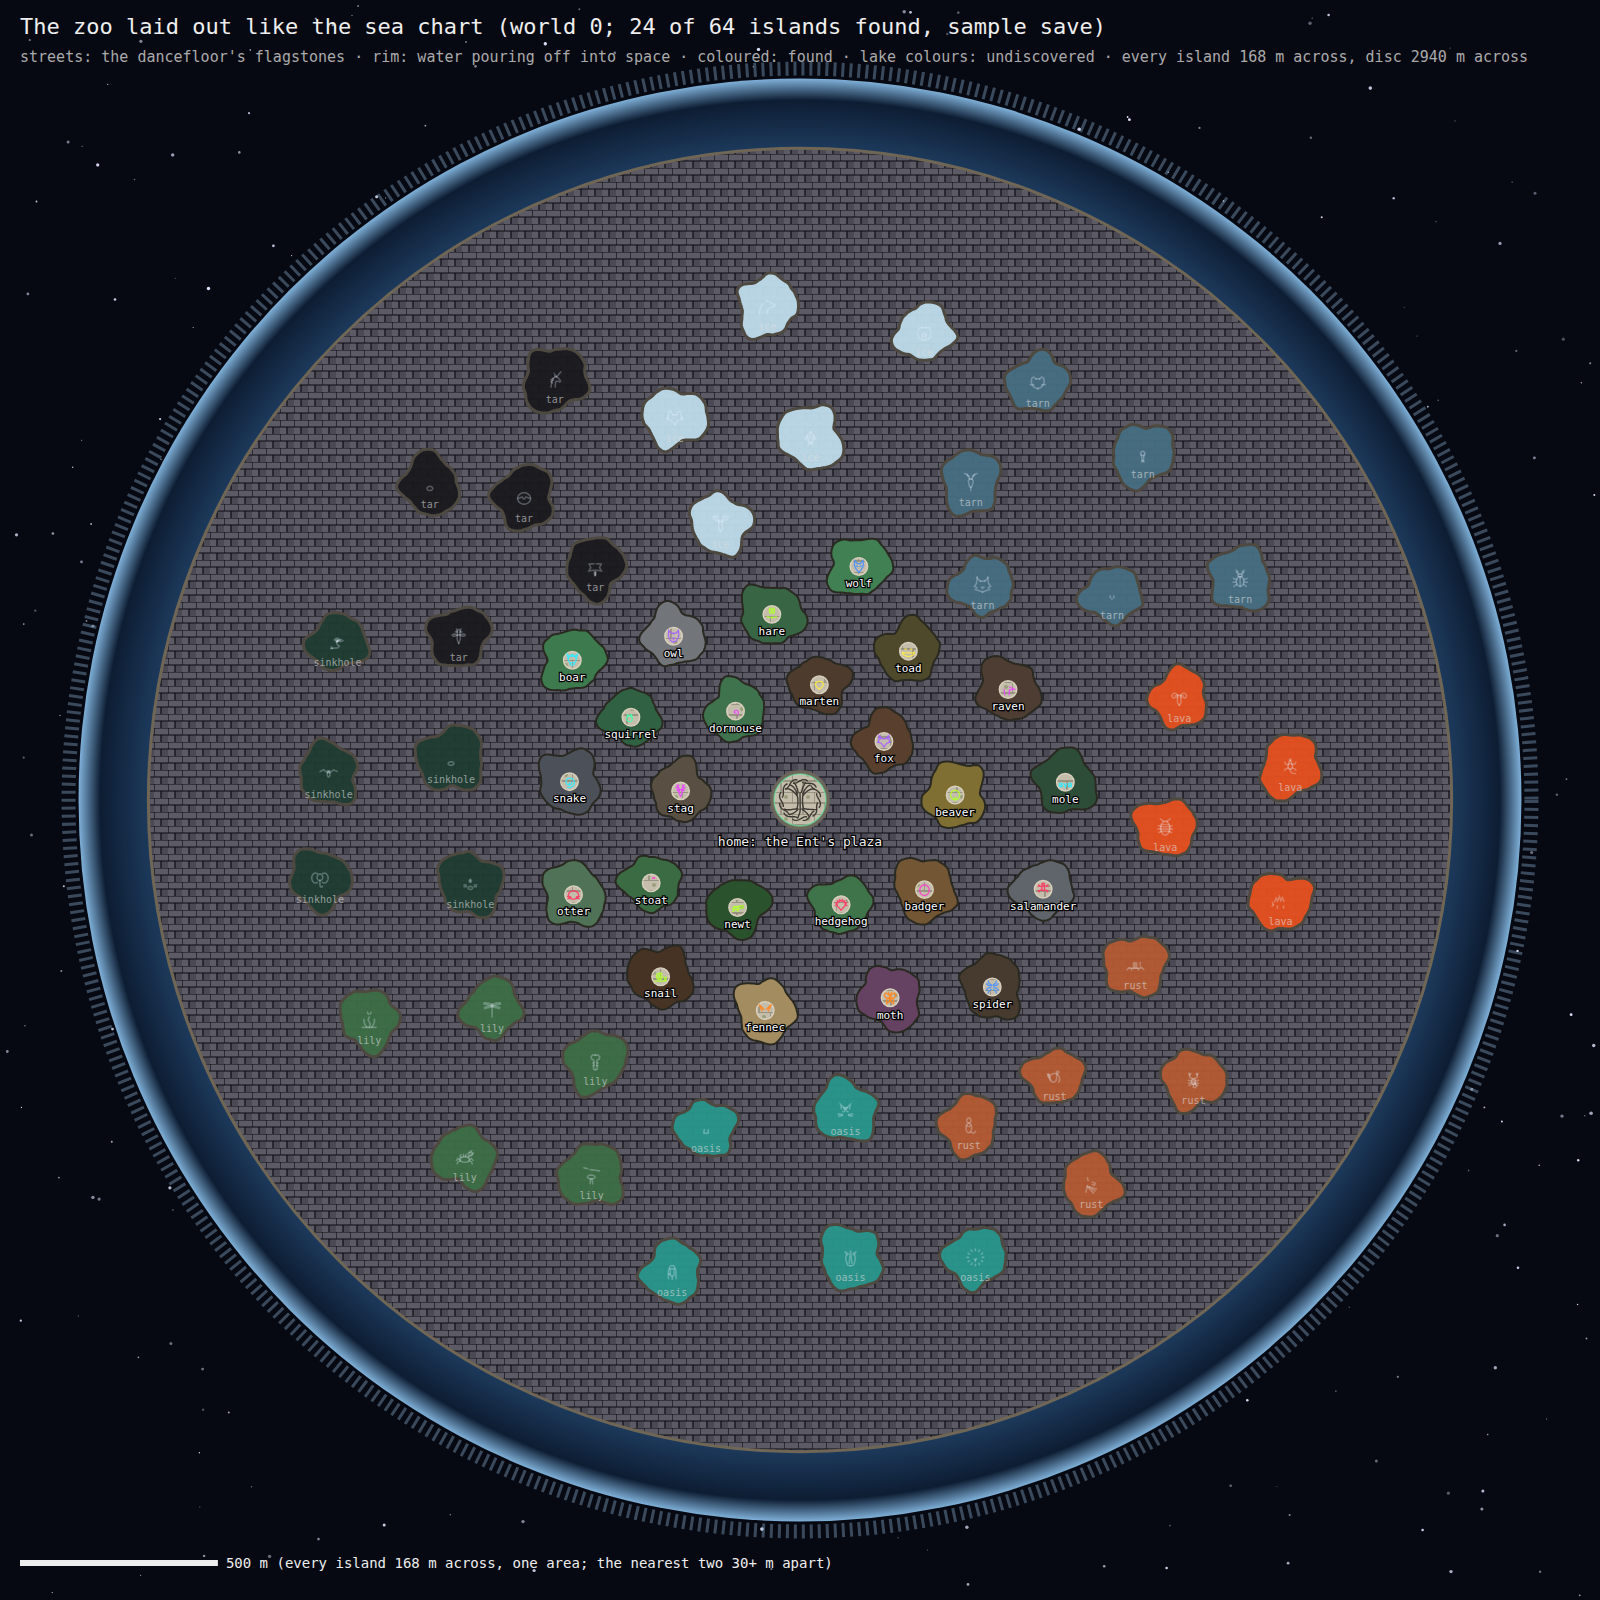
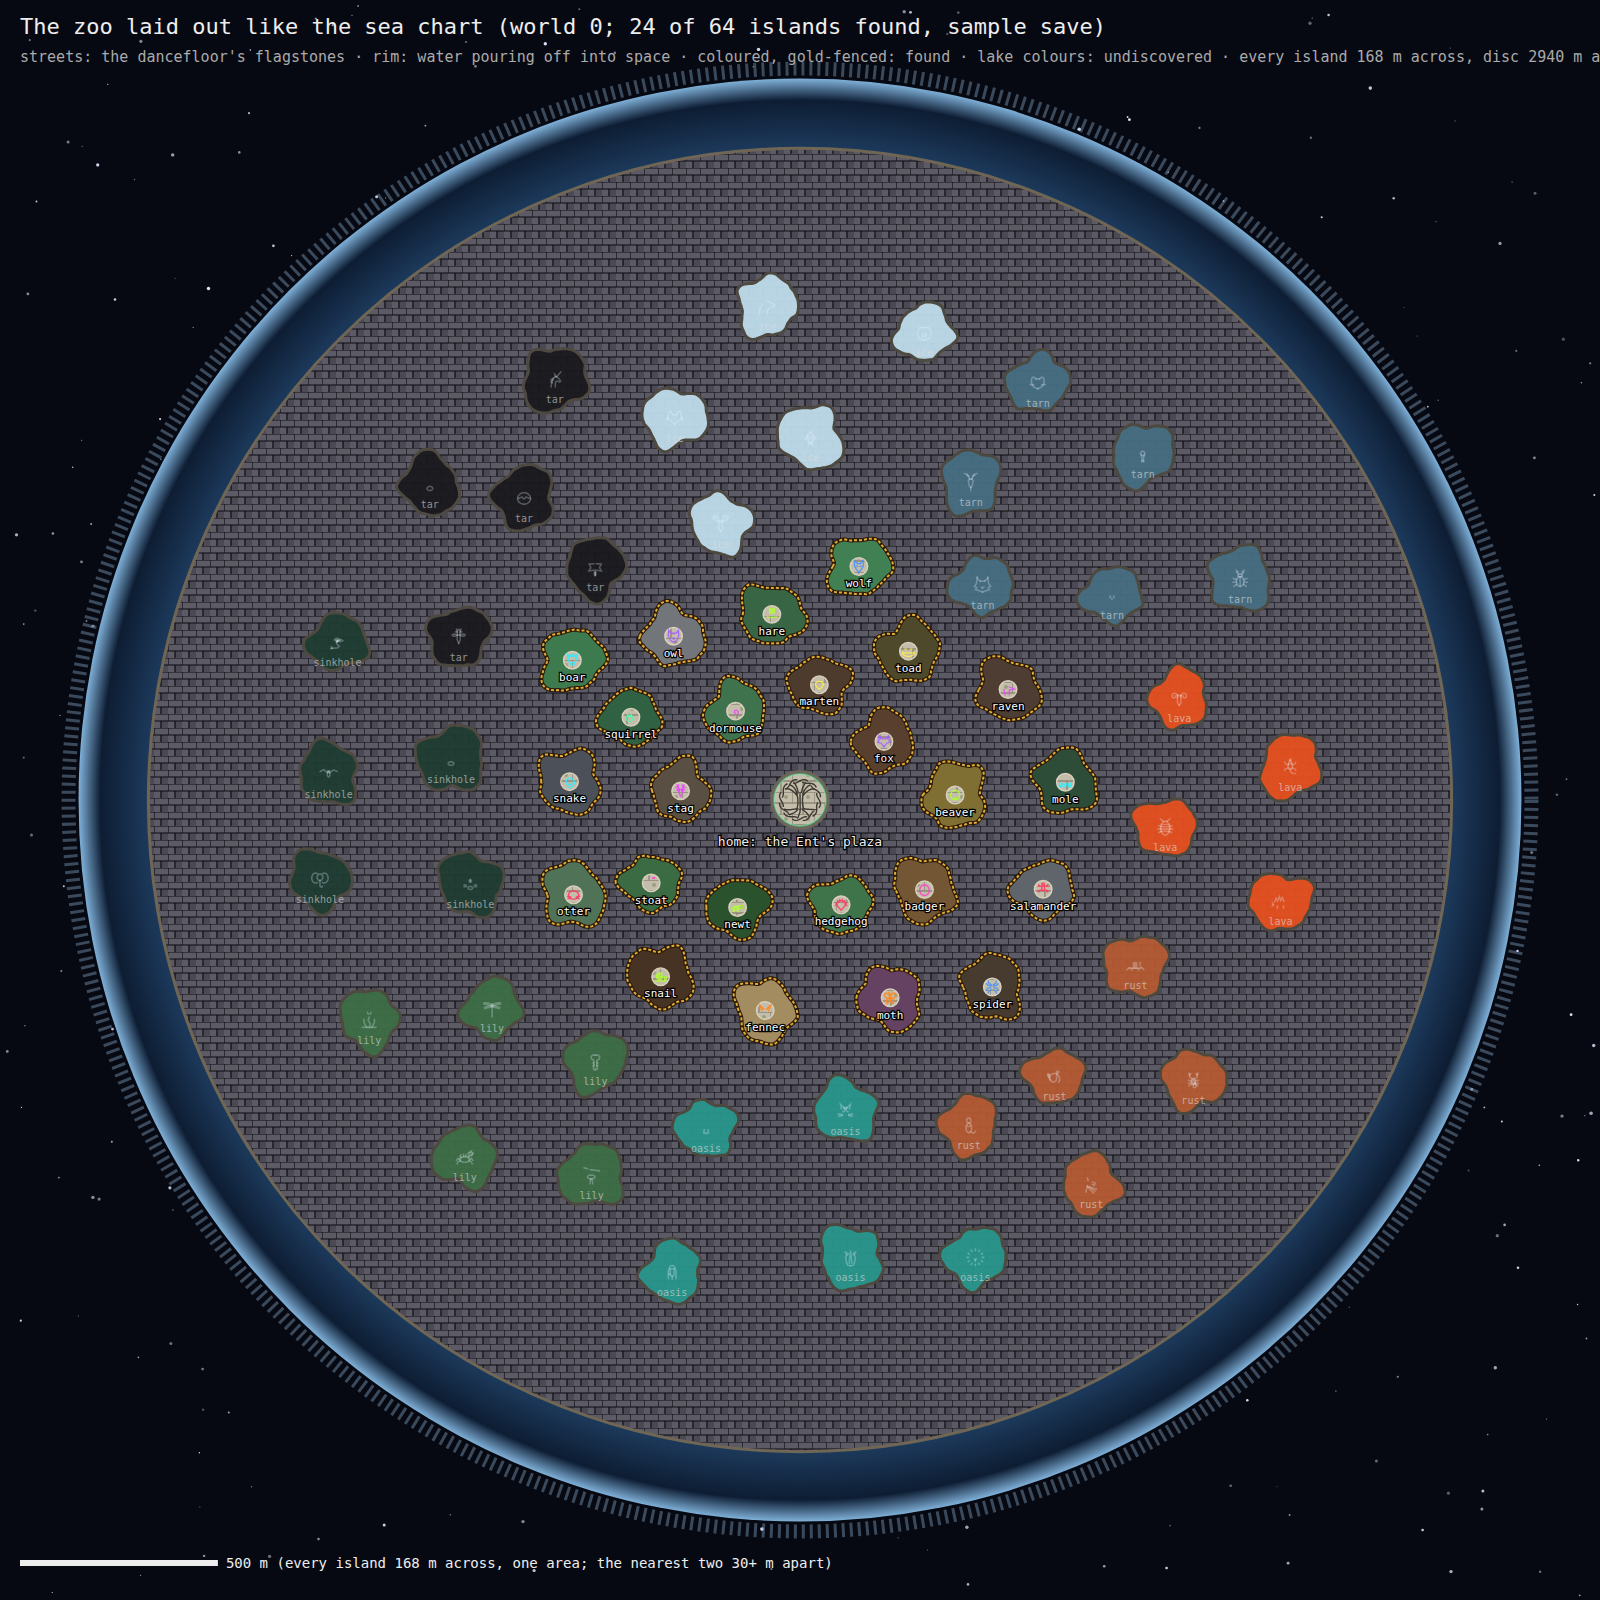
Zoo-map mock: the little gold fence (map outline, concept frame, close-up)
Claude-Session: https://claude.ai/code/session_01TZiiLtuTHaQyxfLgD6H57G

diff --git a/previews/ed/zoo-map/NOTES.md b/previews/ed/zoo-map/NOTES.md
@@ -17,6 +17,7 @@ This is a mock. Nothing here is merged.
 - `chart-edge.png`: the sea chart's own rim, the look the zoo's edge would copy. The sea darkens to the lip, pours off the disc (`seaChart.ts`'s `fall` skirt) and fades into the starfield.
 - `frame-street.png`, `frame-above.png`: in play on a street, on foot and from the treetops. The streets are painted by the ground shader in the dancefloor plaza's flagstones (the same courses, joints, moss and grain as `uPave`), laid in straight courses along the street. This is the mock's hack in `src/render/ground.ts`. It paints today's zoo grid's streets, so it shows **the stone's look only**. The layout is the maps': as built, the flagstones fill the whole sea between the islands (Ed's answer below). `v1/` has the first try, the `flagstones` path strip, for comparison.
 - `frame-island.png`: inside an island's area on foot, today's zoo block (its own floor, flora, runestone and nameplate).
+- `frame-fence.png`, `fence-close.png`: the little gold fence (Ed's), a concept painted in the bold pixel style over the island frame, and a close-up of a section.
 - `lakes/lava-ground.png`, `lakes/ice-*.png`: two biome lakes as the game draws them today. An undiscovered island would be one of these in its outline.
 
 ## How it would read the chart
@@ -81,6 +82,16 @@ Ed: "I think the streets should be the shape of the sea, and the areas should be
 ## Undiscovered islands (Ed answered)
 
 An undiscovered island is its biome's lake in the island's outline, with the animal's sigil drawn faintly on the water: like the legend floor's carving, but faint and watery. To build it, the lake shader takes the sigil's mask (`legendSigilMask`, as the carving does) at low strength, rippled by the water's own wobble.
+
+## The gold fence (Ed)
+
+Ed: "Zoo areas, apart from home, should have a little gold fence around them, that stop creatures passing."
+
+- **Where.** Along every found island's outline (gold in `map.png`). There is none round the home plaza.
+  - **Undiscovered lakes: no fence (proposal).** Nothing lives on them to keep in, and the shore already reads as the edge. When the island is found, its lake becomes the area and the fence appears with it.
+- **Look.** Bold pixel style: three hue-shifted gold tones (a cream highlight, a mid gold, a warm brown shade) and a near-black outline. Posts 2 m apart with ball finials and two rails, 0.9 m tall, about half the witch's height. It is a prop in the art (a `zooFence` piece in art/country.js beside `fence`: posts and rails in a new gold material, or `M.ACCENT` with a gold palette), laid along the outline the way paths lay their edge props. It doesn't glow.
+- **Creatures.** They can't cross it. Each island's creatures keep to its outline, the way a legend's baby keeps to its clearing today (`keepsToCircle`): the rules clamp a creature that would step outside back to the inside. A 💌 still flies over.
+- **The witch.** She steps over it on foot. It is too low to block her, so the rules don't collide her with it, and she walks straight across; the drawing gives her a small step-up as she crosses. In the treetops she simply flies over. Her leashed creatures follow her across: a leashed creature isn't held by its island.
 
 ## Questions for Ed
 
